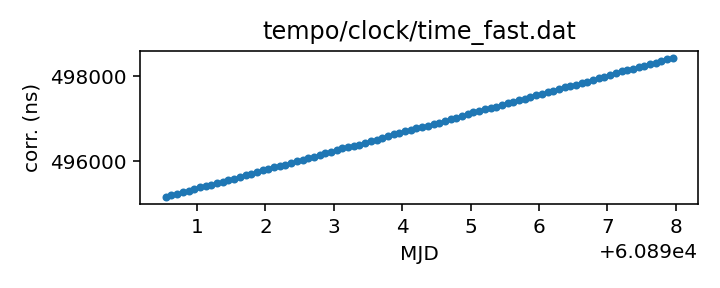
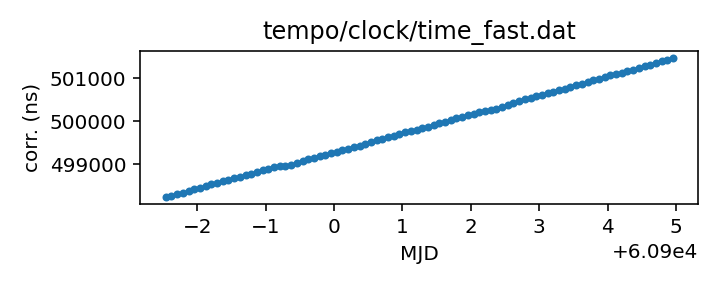
Routine gh-pages update from Github action Mon Aug 18 20:42:08 UTC 2025

diff --git a/status.md b/status.md
@@ -13,18 +13,18 @@ name of each clock file links to a page with more details.
 
 | Name | File | Corrections start | Corrections end | Last check date | Last check result 
 |:--- |:--- | --- | --- | --- |:--- 
-| [GPS to UTC](T2runtime/clock/gps2utc.clk.html) | `T2runtime/clock/gps2utc.clk` | 1993-01-01 MJD 48988.0 | 2025-07-28 MJD 60884.0 | 2025-08-17 | Unchanged 
-| [GPS to UTC (Combined Clock)](T2runtime/clock/gps2utc_cc.clk.html) | `T2runtime/clock/gps2utc_cc.clk` | 1993-01-01 MJD 48988.0 | 2025-07-28 MJD 60884.0 | 2025-08-17 | Unchanged 
-| [GPS to UTC (Corrected)](T2runtime/clock/gps2utc_c0p.clk.html) | `T2runtime/clock/gps2utc_c0p.clk` | 2010-12-29 MJD 55559.0 | 2025-07-28 MJD 60884.0 | 2025-08-17 | Unchanged 
-| [GBT](tempo/clock/time_gbt.dat.html) | `tempo/clock/time_gbt.dat` | 2000-12-31 MJD 51909.5 | 2025-08-16 MJD 60903.5 | 2025-08-17 | Updated 
-| [GBT (TEMPO2 converted from TEMPO)](T2runtime/clock/gbt2gps.clk.html) | `T2runtime/clock/gbt2gps.clk` | 2000-12-31 MJD 51909.5 | 2024-05-18 MJD 60448.5 | 2025-08-17 | **Validation failed** 
-| [Jodrell Bank](T2runtime/clock/jb2gps.clk.html) | `T2runtime/clock/jb2gps.clk` | 2006-10-13 MJD 54021.4 | 2024-11-07 MJD 60621.0 | 2025-08-11 | Unchanged 
-| [Jodrell Bank Roach](T2runtime/clock/jbroach2jb.clk.html) | `T2runtime/clock/jbroach2jb.clk` | 2006-10-13 MJD 54021.4 | 2018-03-20 MJD 58197.6 | 2025-08-11 | Unchanged 
-| [Jodrell Bank DFB](T2runtime/clock/jbdfb2jb.clk.html) | `T2runtime/clock/jbdfb2jb.clk` | 2006-10-13 MJD 54021.4 | 2021-02-22 MJD 59268.0 | 2025-08-11 | Unchanged 
-| [Meerkat (observatory)](T2runtime/clock/mk2utc_observatory.clk.html) | `T2runtime/clock/mk2utc_observatory.clk` | 2019-01-01 MJD 58484.0 | 2025-08-01 MJD 60889.0 | 2025-08-11 | Updated 
-| [Leap seconds](tempo/clock/leap.sec.html) | `tempo/clock/leap.sec` | 1972-07-01 MJD 41499.0 | 2017-01-01 MJD 57754.0 | 2025-08-17 | Unchanged 
-| [UT1 table](tempo/clock/ut1.dat.html) | `tempo/clock/ut1.dat` | 1973-01-02 MJD 41684.0 | 2026-08-22 MJD 61274.0 | 2025-08-17 | Unchanged 
-| [UT1 table](T2runtime/clock/ut1.dat.html) | `T2runtime/clock/ut1.dat` | 1973-01-02 MJD 41684.0 | 2026-08-22 MJD 61274.0 | 2025-08-17 | Unchanged 
+| [GPS to UTC](T2runtime/clock/gps2utc.clk.html) | `T2runtime/clock/gps2utc.clk` | 1993-01-01 MJD 48988.0 | 2025-07-28 MJD 60884.0 | 2025-08-18 | Unchanged 
+| [GPS to UTC (Combined Clock)](T2runtime/clock/gps2utc_cc.clk.html) | `T2runtime/clock/gps2utc_cc.clk` | 1993-01-01 MJD 48988.0 | 2025-07-28 MJD 60884.0 | 2025-08-18 | Unchanged 
+| [GPS to UTC (Corrected)](T2runtime/clock/gps2utc_c0p.clk.html) | `T2runtime/clock/gps2utc_c0p.clk` | 2010-12-29 MJD 55559.0 | 2025-07-28 MJD 60884.0 | 2025-08-18 | Unchanged 
+| [GBT](tempo/clock/time_gbt.dat.html) | `tempo/clock/time_gbt.dat` | 2000-12-31 MJD 51909.5 | 2025-08-17 MJD 60904.5 | 2025-08-18 | Updated 
+| [GBT (TEMPO2 converted from TEMPO)](T2runtime/clock/gbt2gps.clk.html) | `T2runtime/clock/gbt2gps.clk` | 2000-12-31 MJD 51909.5 | 2024-05-18 MJD 60448.5 | 2025-08-18 | **Validation failed** 
+| [Jodrell Bank](T2runtime/clock/jb2gps.clk.html) | `T2runtime/clock/jb2gps.clk` | 2006-10-13 MJD 54021.4 | 2024-11-07 MJD 60621.0 | 2025-08-18 | Unchanged 
+| [Jodrell Bank Roach](T2runtime/clock/jbroach2jb.clk.html) | `T2runtime/clock/jbroach2jb.clk` | 2006-10-13 MJD 54021.4 | 2018-03-20 MJD 58197.6 | 2025-08-18 | Unchanged 
+| [Jodrell Bank DFB](T2runtime/clock/jbdfb2jb.clk.html) | `T2runtime/clock/jbdfb2jb.clk` | 2006-10-13 MJD 54021.4 | 2021-02-22 MJD 59268.0 | 2025-08-18 | Unchanged 
+| [Meerkat (observatory)](T2runtime/clock/mk2utc_observatory.clk.html) | `T2runtime/clock/mk2utc_observatory.clk` | 2019-01-01 MJD 58484.0 | 2025-08-01 MJD 60889.0 | 2025-08-18 | Unchanged 
+| [Leap seconds](tempo/clock/leap.sec.html) | `tempo/clock/leap.sec` | 1972-07-01 MJD 41499.0 | 2017-01-01 MJD 57754.0 | 2025-08-18 | Unchanged 
+| [UT1 table](tempo/clock/ut1.dat.html) | `tempo/clock/ut1.dat` | 1973-01-02 MJD 41684.0 | 2026-08-22 MJD 61274.0 | 2025-08-18 | Unchanged 
+| [UT1 table](T2runtime/clock/ut1.dat.html) | `T2runtime/clock/ut1.dat` | 1973-01-02 MJD 41684.0 | 2026-08-22 MJD 61274.0 | 2025-08-18 | Unchanged 
 
 
 
@@ -68,26 +68,26 @@ name of each clock file links to a page with more details.
 
 | Name | File | Corrections start | Corrections end | Last check date | Last check result 
 |:--- |:--- | --- | --- | --- |:--- 
-| [GPS to UTC (TEMPO2)](T2runtime/clock/gpst2utc_tempo2.clk.html) | `T2runtime/clock/gpst2utc_tempo2.clk` | 1993-01-01 MJD 48988.0 | 2024-12-30 MJD 60674.0 | 2025-08-11 | Unchanged 
-| [GBT (TEMPO2)](T2runtime/clock/gbt2gps_tempo2.clk.html) | `T2runtime/clock/gbt2gps_tempo2.clk` | 2000-12-31 MJD 51909.5 | 2020-02-25 MJD 58904.5 | 2025-08-11 | Unchanged 
-| [Jodrell Bank (TEMPO)](tempo/clock/time_jb.dat.html) | `tempo/clock/time_jb.dat` | 2006-10-13 MJD 54021.4 | 2019-05-13 MJD 58616.2 | 2025-08-11 | Unchanged 
-| [VLA](tempo/clock/time_vla.dat.html) | `tempo/clock/time_vla.dat` | 1990-10-27 MJD 48191.2 | 2025-02-10 MJD 60716.2 | 2025-08-11 | Unchanged 
-| [VLA (TEMPO2)](T2runtime/clock/vla2gps.clk.html) | `T2runtime/clock/vla2gps.clk` | 2015-02-01 MJD 57054.6 | 2025-02-10 MJD 60716.2 | 2025-08-11 | Unchanged 
-| [VLA to NIST](T2runtime/clock/vla2nist.clk.html) | `T2runtime/clock/vla2nist.clk` | 1990-10-27 MJD 48191.2 | 1993-11-13 MJD 49304.0 | 2025-08-11 | Unchanged 
-| [FAST](tempo/clock/time_fast.dat.html) | `tempo/clock/time_fast.dat` | 2017-07-27 MJD 57961.0 | 2025-08-10 MJD 60898.0 | 2025-08-11 | Updated 
-| [WSRT](T2runtime/clock/wsrt2gps.clk.html) | `T2runtime/clock/wsrt2gps.clk` | 1999-01-01 MJD 51179.5 | 2015-06-29 MJD 57202.1 | 2025-08-11 | Unchanged 
-| [WSRT (TEMPO)](tempo/clock/time_wsrt.dat.html) | `tempo/clock/time_wsrt.dat` | 1987-07-24 MJD 47000.0 | 2007-12-24 MJD 54458.0 | 2025-08-11 | **Validation failed** 
-| [Parkes](T2runtime/clock/pks2gps.clk.html) | `T2runtime/clock/pks2gps.clk` | 1858-11-17 MJD 0.0 | 2025-06-30 MJD 60856.1 | 2025-08-11 | Unchanged 
-| [Parkes (TEMPO)](tempo/clock/time_pks.dat.html) | `tempo/clock/time_pks.dat` | 1979-05-07 MJD 44000.0 | 2011-07-03 MJD 55745.8 | 2025-08-11 | Unchanged 
-| [SRT](T2runtime/clock/srt2gps.clk.html) | `T2runtime/clock/srt2gps.clk` | 2013-03-20 MJD 56371.0 | 2019-12-11 MJD 58828.0 | 2025-08-11 | Unchanged 
-| [Effelsberg](T2runtime/clock/eff2gps.clk.html) | `T2runtime/clock/eff2gps.clk` | 1993-11-29 MJD 49320.0 | 2015-06-22 MJD 57195.5 | 2025-08-11 | Unchanged 
-| [Effelsberg Asterix/PSRix](T2runtime/clock/effix2gps.clk.html) | `T2runtime/clock/effix2gps.clk` | 2011-01-01 MJD 55562.5 | 2021-03-21 MJD 59294.5 | 2025-08-11 | Unchanged 
-| [LEAP](T2runtime/clock/leap2effix.clk.html) | `T2runtime/clock/leap2effix.clk` | 2012-10-29 MJD 56230.0 | 2014-03-04 MJD 56720.0 | 2025-08-11 | Unchanged 
-| [NUPPI](tempo/clock/time_nuppi.dat.html) | `tempo/clock/time_nuppi.dat` | 2005-03-07 MJD 53436.0 | 2015-11-08 MJD 57334.6 | 2025-08-11 | Unchanged 
-| [Meerkat (TEMPO2)](T2runtime/clock/mk2utc.clk.html) | `T2runtime/clock/mk2utc.clk` | 2019-01-01 MJD 58484.0 | 2024-09-23 MJD 60576.9 | 2025-08-11 | **Validation failed** 
-| [MOST](T2runtime/clock/mo2gps.clk.html) | `T2runtime/clock/mo2gps.clk` | 2003-12-27 MJD 53000.0 | 2018-09-06 MJD 58367.0 | 2025-08-11 | Unchanged 
-| [Nancay to obspm](T2runtime/clock/ncyobs2obspm.clk.html) | `T2runtime/clock/ncyobs2obspm.clk` | 1988-05-18 MJD 47299.6 | 2024-12-30 MJD 60674.0 | 2025-08-11 | Unchanged 
-| [obspm](T2runtime/clock/obspm2gps.clk.html) | `T2runtime/clock/obspm2gps.clk` | 2003-12-01 MJD 52974.0 | 2023-10-27 MJD 60244.0 | 2025-08-11 | Unchanged 
+| [GPS to UTC (TEMPO2)](T2runtime/clock/gpst2utc_tempo2.clk.html) | `T2runtime/clock/gpst2utc_tempo2.clk` | 1993-01-01 MJD 48988.0 | 2024-12-30 MJD 60674.0 | 2025-08-18 | Unchanged 
+| [GBT (TEMPO2)](T2runtime/clock/gbt2gps_tempo2.clk.html) | `T2runtime/clock/gbt2gps_tempo2.clk` | 2000-12-31 MJD 51909.5 | 2020-02-25 MJD 58904.5 | 2025-08-18 | Unchanged 
+| [Jodrell Bank (TEMPO)](tempo/clock/time_jb.dat.html) | `tempo/clock/time_jb.dat` | 2006-10-13 MJD 54021.4 | 2019-05-13 MJD 58616.2 | 2025-08-18 | Unchanged 
+| [VLA](tempo/clock/time_vla.dat.html) | `tempo/clock/time_vla.dat` | 1990-10-27 MJD 48191.2 | 2025-02-10 MJD 60716.2 | 2025-08-18 | Unchanged 
+| [VLA (TEMPO2)](T2runtime/clock/vla2gps.clk.html) | `T2runtime/clock/vla2gps.clk` | 2015-02-01 MJD 57054.6 | 2025-02-10 MJD 60716.2 | 2025-08-18 | Unchanged 
+| [VLA to NIST](T2runtime/clock/vla2nist.clk.html) | `T2runtime/clock/vla2nist.clk` | 1990-10-27 MJD 48191.2 | 1993-11-13 MJD 49304.0 | 2025-08-18 | Unchanged 
+| [FAST](tempo/clock/time_fast.dat.html) | `tempo/clock/time_fast.dat` | 2017-07-27 MJD 57961.0 | 2025-08-17 MJD 60905.0 | 2025-08-18 | Updated 
+| [WSRT](T2runtime/clock/wsrt2gps.clk.html) | `T2runtime/clock/wsrt2gps.clk` | 1999-01-01 MJD 51179.5 | 2015-06-29 MJD 57202.1 | 2025-08-18 | Unchanged 
+| [WSRT (TEMPO)](tempo/clock/time_wsrt.dat.html) | `tempo/clock/time_wsrt.dat` | 1987-07-24 MJD 47000.0 | 2007-12-24 MJD 54458.0 | 2025-08-18 | **Validation failed** 
+| [Parkes](T2runtime/clock/pks2gps.clk.html) | `T2runtime/clock/pks2gps.clk` | 1858-11-17 MJD 0.0 | 2025-06-30 MJD 60856.1 | 2025-08-18 | Unchanged 
+| [Parkes (TEMPO)](tempo/clock/time_pks.dat.html) | `tempo/clock/time_pks.dat` | 1979-05-07 MJD 44000.0 | 2011-07-03 MJD 55745.8 | 2025-08-18 | Unchanged 
+| [SRT](T2runtime/clock/srt2gps.clk.html) | `T2runtime/clock/srt2gps.clk` | 2013-03-20 MJD 56371.0 | 2019-12-11 MJD 58828.0 | 2025-08-18 | Unchanged 
+| [Effelsberg](T2runtime/clock/eff2gps.clk.html) | `T2runtime/clock/eff2gps.clk` | 1993-11-29 MJD 49320.0 | 2015-06-22 MJD 57195.5 | 2025-08-18 | Unchanged 
+| [Effelsberg Asterix/PSRix](T2runtime/clock/effix2gps.clk.html) | `T2runtime/clock/effix2gps.clk` | 2011-01-01 MJD 55562.5 | 2021-03-21 MJD 59294.5 | 2025-08-18 | Unchanged 
+| [LEAP](T2runtime/clock/leap2effix.clk.html) | `T2runtime/clock/leap2effix.clk` | 2012-10-29 MJD 56230.0 | 2014-03-04 MJD 56720.0 | 2025-08-18 | Unchanged 
+| [NUPPI](tempo/clock/time_nuppi.dat.html) | `tempo/clock/time_nuppi.dat` | 2005-03-07 MJD 53436.0 | 2015-11-08 MJD 57334.6 | 2025-08-18 | Unchanged 
+| [Meerkat (TEMPO2)](T2runtime/clock/mk2utc.clk.html) | `T2runtime/clock/mk2utc.clk` | 2019-01-01 MJD 58484.0 | 2024-09-23 MJD 60576.9 | 2025-08-18 | **Validation failed** 
+| [MOST](T2runtime/clock/mo2gps.clk.html) | `T2runtime/clock/mo2gps.clk` | 2003-12-27 MJD 53000.0 | 2018-09-06 MJD 58367.0 | 2025-08-18 | Unchanged 
+| [Nancay to obspm](T2runtime/clock/ncyobs2obspm.clk.html) | `T2runtime/clock/ncyobs2obspm.clk` | 1988-05-18 MJD 47299.6 | 2024-12-30 MJD 60674.0 | 2025-08-18 | Unchanged 
+| [obspm](T2runtime/clock/obspm2gps.clk.html) | `T2runtime/clock/obspm2gps.clk` | 2003-12-01 MJD 52974.0 | 2023-10-27 MJD 60244.0 | 2025-08-18 | Unchanged 
 
 
 ### Further information:

diff --git a/T2runtime/clock/gbt2gps.clk.md b/T2runtime/clock/gbt2gps.clk.md
@@ -25,12 +25,11 @@ If questions arise about the conversion, contact Anne Archibald
 | Clock file start | 2000-12-31 MJD 51909.5 |
 | Clock file end | 2024-05-18 MJD 60448.5 |
 | Update interval (days) | 1 |
-| Last update attempt | 2025-08-17 |
+| Last update attempt | 2025-08-18 |
 | Last update result | Validation failed |
 
 Log entries from the last few update attempts:
 ```
-2025-08-08 20:44:14.705 - Validation failed: New version of T2runtime/clock/gbt2gps.clk MJDs differ from old version where they overlap in 8407 places
 2025-08-09 20:42:55.703 - Validation failed: New version of T2runtime/clock/gbt2gps.clk MJDs differ from old version where they overlap in 8407 places
 2025-08-10 20:42:39.050 - Validation failed: New version of T2runtime/clock/gbt2gps.clk MJDs differ from old version where they overlap in 8407 places
 2025-08-11 20:42:40.850 - Validation failed: New version of T2runtime/clock/gbt2gps.clk MJDs differ from old version where they overlap in 8407 places
@@ -40,6 +39,7 @@ Log entries from the last few update attempts:
 2025-08-15 20:43:00.985 - Validation failed: New version of T2runtime/clock/gbt2gps.clk MJDs differ from old version where they overlap in 8407 places
 2025-08-16 20:40:25.816 - Validation failed: New version of T2runtime/clock/gbt2gps.clk MJDs differ from old version where they overlap in 8407 places
 2025-08-17 20:42:24.749 - Validation failed: New version of T2runtime/clock/gbt2gps.clk MJDs differ from old version where they overlap in 8407 places
+2025-08-18 20:41:27.047 - Validation failed: New version of T2runtime/clock/gbt2gps.clk MJDs differ from old version where they overlap in 8407 places
 ```
 [Full log](https://raw.githubusercontent.com/ipta/pulsar-clock-corrections/main/log/T2runtime/clock/gbt2gps.clk.log)
 

diff --git a/T2runtime/clock/mk2utc.clk.md b/T2runtime/clock/mk2utc.clk.md
@@ -17,12 +17,11 @@ up-to-date.
 | Clock file start | 2019-01-01 MJD 58484.0 |
 | Clock file end | 2024-09-23 MJD 60576.9 |
 | Update interval (days) | 7 |
-| Last update attempt | 2025-08-11 |
+| Last update attempt | 2025-08-18 |
 | Last update result | Validation failed |
 
 Log entries from the last few update attempts:
 ```
-2025-06-09 20:44:07.749 - Validation failed: New version of T2runtime/clock/mk2utc.clk MJDs differ from old version where they overlap in 8252 places
 2025-06-16 20:44:25.349 - Validation failed: New version of T2runtime/clock/mk2utc.clk MJDs differ from old version where they overlap in 8252 places
 2025-06-23 20:44:09.946 - Validation failed: New version of T2runtime/clock/mk2utc.clk MJDs differ from old version where they overlap in 8252 places
 2025-06-30 20:43:41.583 - Validation failed: New version of T2runtime/clock/mk2utc.clk MJDs differ from old version where they overlap in 8252 places
@@ -32,6 +31,7 @@ Log entries from the last few update attempts:
 2025-07-28 20:46:36.482 - Validation failed: New version of T2runtime/clock/mk2utc.clk MJDs differ from old version where they overlap in 8252 places
 2025-08-04 20:47:32.845 - Validation failed: New version of T2runtime/clock/mk2utc.clk MJDs differ from old version where they overlap in 8252 places
 2025-08-11 20:42:56.476 - Validation failed: New version of T2runtime/clock/mk2utc.clk MJDs differ from old version where they overlap in 8252 places
+2025-08-18 20:41:43.006 - Validation failed: New version of T2runtime/clock/mk2utc.clk MJDs differ from old version where they overlap in 8252 places
 ```
 [Full log](https://raw.githubusercontent.com/ipta/pulsar-clock-corrections/main/log/T2runtime/clock/mk2utc.clk.log)
 

diff --git a/tempo/clock/time_wsrt.dat.md b/tempo/clock/time_wsrt.dat.md
@@ -20,12 +20,11 @@ should be the same information.
 | Clock file start | 1987-07-24 MJD 47000.0 |
 | Clock file end | 2007-12-24 MJD 54458.0 |
 | Update interval (days) | 7 |
-| Last update attempt | 2025-08-11 |
+| Last update attempt | 2025-08-18 |
 | Last update result | Validation failed |
 
 Log entries from the last few update attempts:
 ```
-2025-06-09 20:43:57.091 - Validation failed: New version of tempo/clock/time_wsrt.dat MJDs differ from old version where they overlap in 5 places
 2025-06-16 20:43:49.587 - Validation failed: New version of tempo/clock/time_wsrt.dat MJDs differ from old version where they overlap in 5 places
 2025-06-23 20:43:50.541 - Validation failed: New version of tempo/clock/time_wsrt.dat MJDs differ from old version where they overlap in 5 places
 2025-06-30 20:43:31.128 - Validation failed: New version of tempo/clock/time_wsrt.dat MJDs differ from old version where they overlap in 5 places
@@ -35,6 +34,7 @@ Log entries from the last few update attempts:
 2025-07-28 20:46:15.664 - Validation failed: New version of tempo/clock/time_wsrt.dat MJDs differ from old version where they overlap in 5 places
 2025-08-04 20:47:14.935 - Validation failed: New version of tempo/clock/time_wsrt.dat MJDs differ from old version where they overlap in 5 places
 2025-08-11 20:42:44.619 - Validation failed: New version of tempo/clock/time_wsrt.dat MJDs differ from old version where they overlap in 5 places
+2025-08-18 20:41:31.066 - Validation failed: New version of tempo/clock/time_wsrt.dat MJDs differ from old version where they overlap in 5 places
 ```
 [Full log](https://raw.githubusercontent.com/ipta/pulsar-clock-corrections/main/log/tempo/clock/time_wsrt.dat.log)
 

diff --git a/tempo/clock/time_gbt.dat.md b/tempo/clock/time_gbt.dat.md
@@ -36,14 +36,13 @@ If questions arise, contact Ryan S. Lynch <rlynch@nrao.edu>.
 | Format | tempo |
 | Bogus last correction | False |
 | Clock file start | 2000-12-31 MJD 51909.5 |
-| Clock file end | 2025-08-16 MJD 60903.5 |
+| Clock file end | 2025-08-17 MJD 60904.5 |
 | Update interval (days) | 1 |
-| Last update attempt | 2025-08-17 |
+| Last update attempt | 2025-08-18 |
 | Last update result | Updated |
 
 Log entries from the last few update attempts:
 ```
-2025-08-08 20:44:14.646 - Updated
 2025-08-09 20:42:55.645 - Updated
 2025-08-10 20:42:38.991 - Updated
 2025-08-11 20:42:40.398 - Updated
@@ -53,12 +52,13 @@ Log entries from the last few update attempts:
 2025-08-15 20:43:00.925 - Updated
 2025-08-16 20:40:25.757 - Updated
 2025-08-17 20:42:24.688 - Updated
+2025-08-18 20:41:26.553 - Updated
 ```
 [Full log](https://raw.githubusercontent.com/ipta/pulsar-clock-corrections/main/log/tempo/clock/time_gbt.dat.log)
 
 Leading comments from clock file:
 
-     -2271.50       0.0        -0.486 1    32765-dec
+     -2271.50       0.0        -0.486 1    32764-dec
 
 
 

diff --git a/T2runtime/clock/mk2utc_observatory.clk.md b/T2runtime/clock/mk2utc_observatory.clk.md
@@ -21,12 +21,11 @@ If questions arise, contact Ryan Shannon <rshannon@swin.edu.au>
 | Clock file start | 2019-01-01 MJD 58484.0 |
 | Clock file end | 2025-08-01 MJD 60889.0 |
 | Update interval (days) | 7 |
-| Last update attempt | 2025-08-11 |
-| Last update result | Updated |
+| Last update attempt | 2025-08-18 |
+| Last update result | Unchanged |
 
 Log entries from the last few update attempts:
 ```
-2025-06-09 20:44:06.297 - Unchanged
 2025-06-16 20:44:23.561 - Unchanged
 2025-06-23 20:44:08.669 - Updated
 2025-06-30 20:43:39.919 - Unchanged
@@ -36,6 +35,7 @@ Log entries from the last few update attempts:
 2025-07-28 20:46:35.112 - Updated
 2025-08-04 20:47:31.397 - Failed to download: <urlopen error _ssl.c:999: The handshake operation timed out>
 2025-08-11 20:42:54.993 - Updated
+2025-08-18 20:41:41.526 - Unchanged
 ```
 [Full log](https://raw.githubusercontent.com/ipta/pulsar-clock-corrections/main/log/T2runtime/clock/mk2utc_observatory.clk.log)
 

diff --git a/tempo/clock/time_fast.dat.md b/tempo/clock/time_fast.dat.md
@@ -14,14 +14,13 @@ This file is pulled from the FAST_ClockFile repository.
 | Format | tempo |
 | Bogus last correction | False |
 | Clock file start | 2017-07-27 MJD 57961.0 |
-| Clock file end | 2025-08-10 MJD 60898.0 |
+| Clock file end | 2025-08-17 MJD 60905.0 |
 | Update interval (days) | 7 |
-| Last update attempt | 2025-08-11 |
+| Last update attempt | 2025-08-18 |
 | Last update result | Updated |
 
 Log entries from the last few update attempts:
 ```
-2025-06-09 20:43:56.626 - Updated
 2025-06-16 20:43:48.812 - Unchanged
 2025-06-23 20:43:50.152 - Updated
 2025-06-30 20:43:30.435 - Updated
@@ -31,6 +30,7 @@ Log entries from the last few update attempts:
 2025-07-28 20:46:15.169 - Updated
 2025-08-04 20:47:14.380 - Updated
 2025-08-11 20:42:44.120 - Updated
+2025-08-18 20:41:30.519 - Updated
 ```
 [Full log](https://raw.githubusercontent.com/ipta/pulsar-clock-corrections/main/log/tempo/clock/time_fast.dat.log)
 

diff --git a/T2runtime/clock/gps2utc_c0p.clk.md b/T2runtime/clock/gps2utc_c0p.clk.md
@@ -30,12 +30,11 @@ about the BIPM's published corrections, contact <tai@bipm.org>.
 | Clock file start | 2010-12-29 MJD 55559.0 |
 | Clock file end | 2025-07-28 MJD 60884.0 |
 | Update interval (days) | 1 |
-| Last update attempt | 2025-08-17 |
+| Last update attempt | 2025-08-18 |
 | Last update result | Unchanged |
 
 Log entries from the last few update attempts:
 ```
-2025-08-08 20:44:14.164 - Updated
 2025-08-09 20:42:54.870 - Unchanged
 2025-08-10 20:42:38.603 - Unchanged
 2025-08-11 20:42:40.113 - Unchanged
@@ -45,6 +44,7 @@ Log entries from the last few update attempts:
 2025-08-15 20:43:00.280 - Unchanged
 2025-08-16 20:40:25.319 - Unchanged
 2025-08-17 20:42:23.538 - Unchanged
+2025-08-18 20:41:26.148 - Unchanged
 ```
 [Full log](https://raw.githubusercontent.com/ipta/pulsar-clock-corrections/main/log/T2runtime/clock/gps2utc_c0p.clk.log)
 

diff --git a/tempo/clock/time_pks.dat.md b/tempo/clock/time_pks.dat.md
@@ -20,12 +20,11 @@ telescopes in the same file, distinguished only by observatory code.
 | Clock file start | 1979-05-07 MJD 44000.0 |
 | Clock file end | 2011-07-03 MJD 55745.8 |
 | Update interval (days) | 7 |
-| Last update attempt | 2025-08-11 |
+| Last update attempt | 2025-08-18 |
 | Last update result | Unchanged |
 
 Log entries from the last few update attempts:
 ```
-2025-06-09 20:44:01.920 - Unchanged
 2025-06-16 20:43:53.586 - Unchanged
 2025-06-23 20:43:55.195 - Unchanged
 2025-06-30 20:43:34.826 - Unchanged
@@ -35,6 +34,7 @@ Log entries from the last few update attempts:
 2025-07-28 20:46:20.512 - Unchanged
 2025-08-04 20:47:19.527 - Unchanged
 2025-08-11 20:42:49.362 - Unchanged
+2025-08-18 20:41:36.496 - Unchanged
 ```
 [Full log](https://raw.githubusercontent.com/ipta/pulsar-clock-corrections/main/log/tempo/clock/time_pks.dat.log)
 

diff --git a/T2runtime/clock/gps2utc_cc.clk.md b/T2runtime/clock/gps2utc_cc.clk.md
@@ -29,12 +29,11 @@ about the BIPM's published corrections, contact <tai@bipm.org>.
 | Clock file start | 1993-01-01 MJD 48988.0 |
 | Clock file end | 2025-07-28 MJD 60884.0 |
 | Update interval (days) | 1 |
-| Last update attempt | 2025-08-17 |
+| Last update attempt | 2025-08-18 |
 | Last update result | Unchanged |
 
 Log entries from the last few update attempts:
 ```
-2025-08-08 20:44:14.139 - Updated
 2025-08-09 20:42:54.862 - Unchanged
 2025-08-10 20:42:38.595 - Unchanged
 2025-08-11 20:42:40.104 - Unchanged
@@ -44,6 +43,7 @@ Log entries from the last few update attempts:
 2025-08-15 20:43:00.272 - Unchanged
 2025-08-16 20:40:25.311 - Unchanged
 2025-08-17 20:42:23.529 - Unchanged
+2025-08-18 20:41:26.140 - Unchanged
 ```
 [Full log](https://raw.githubusercontent.com/ipta/pulsar-clock-corrections/main/log/T2runtime/clock/gps2utc_cc.clk.log)
 

diff --git a/T2runtime/clock/gps2utc.clk.md b/T2runtime/clock/gps2utc.clk.md
@@ -32,12 +32,11 @@ about the BIPM's published corrections, contact <tai@bipm.org>.
 | Clock file start | 1993-01-01 MJD 48988.0 |
 | Clock file end | 2025-07-28 MJD 60884.0 |
 | Update interval (days) | 1 |
-| Last update attempt | 2025-08-17 |
+| Last update attempt | 2025-08-18 |
 | Last update result | Unchanged |
 
 Log entries from the last few update attempts:
 ```
-2025-08-08 20:44:14.080 - Updated
 2025-08-09 20:42:54.840 - Unchanged
 2025-08-10 20:42:38.573 - Unchanged
 2025-08-11 20:42:40.082 - Unchanged
@@ -47,6 +46,7 @@ Log entries from the last few update attempts:
 2025-08-15 20:43:00.249 - Unchanged
 2025-08-16 20:40:25.289 - Unchanged
 2025-08-17 20:42:23.507 - Unchanged
+2025-08-18 20:41:26.118 - Unchanged
 ```
 [Full log](https://raw.githubusercontent.com/ipta/pulsar-clock-corrections/main/log/T2runtime/clock/gps2utc.clk.log)
 

diff --git a/T2runtime/clock/ncyobs2obspm.clk.md b/T2runtime/clock/ncyobs2obspm.clk.md
@@ -22,12 +22,11 @@ thus here) can be expected to be somewhat up to date.
 | Clock file start | 1988-05-18 MJD 47299.6 |
 | Clock file end | 2024-12-30 MJD 60674.0 |
 | Update interval (days) | 7 |
-| Last update attempt | 2025-08-11 |
+| Last update attempt | 2025-08-18 |
 | Last update result | Unchanged |
 
 Log entries from the last few update attempts:
 ```
-2025-06-09 20:44:08.306 - Unchanged
 2025-06-16 20:44:26.234 - Unchanged
 2025-06-23 20:44:10.223 - Unchanged
 2025-06-30 20:43:42.487 - Unchanged
@@ -37,6 +36,7 @@ Log entries from the last few update attempts:
 2025-07-28 20:46:36.866 - Unchanged
 2025-08-04 20:47:33.493 - Unchanged
 2025-08-11 20:42:56.980 - Unchanged
+2025-08-18 20:41:43.634 - Unchanged
 ```
 [Full log](https://raw.githubusercontent.com/ipta/pulsar-clock-corrections/main/log/T2runtime/clock/ncyobs2obspm.clk.log)
 
